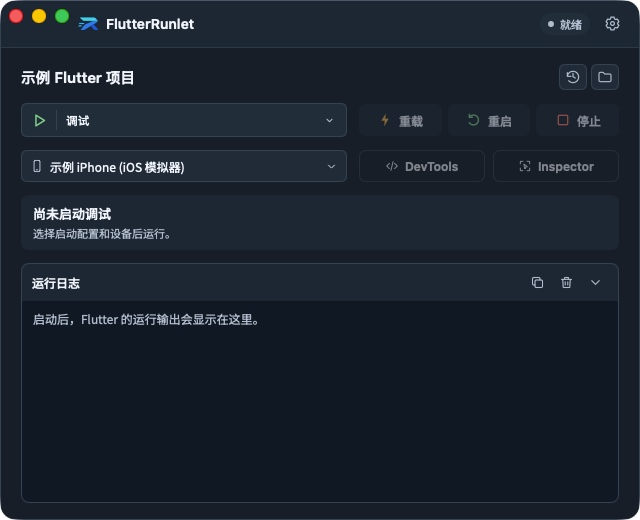
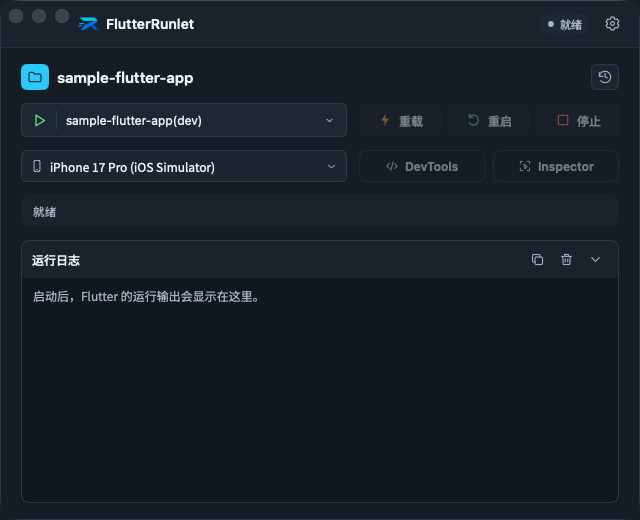
docs: 更新 v0.4.1 截图和首次打开说明

diff --git a/README.md b/README.md
@@ -22,15 +22,17 @@ I built FlutterRunlet so I could keep my existing Flutter configurations, leave 
 
 | Main window | Menu bar |
 | :---: | :---: |
-| [![FlutterRunlet main window with app, configuration, device, and logs](docs/screenshots/main-window.jpg)](docs/screenshots/main-window.jpg) | [![macOS menu bar with the FlutterRunlet panel open](docs/screenshots/menu-bar.jpg)](docs/screenshots/menu-bar.jpg) |
+| [![FlutterRunlet main window with app, configuration, device, and logs](docs/screenshots/main-window.jpg)](docs/screenshots/main-window.jpg) | [![FlutterRunlet menu bar panel with project, configuration, and device](docs/screenshots/menu-bar.jpg)](docs/screenshots/menu-bar.jpg) |
 | **DevTools settings** | **About** |
-| [![FlutterRunlet DevTools settings with a standalone SDK and a shortened path](docs/screenshots/devtools.jpg)](docs/screenshots/devtools.jpg) | [![About FlutterRunlet with Check for Updates and four links](docs/screenshots/about.jpg)](docs/screenshots/about.jpg) |
+| [![FlutterRunlet DevTools source and source editor settings](docs/screenshots/devtools.jpg)](docs/screenshots/devtools.jpg) | [![About FlutterRunlet with Check for Updates and four links](docs/screenshots/about.jpg)](docs/screenshots/about.jpg) |
 
-The DevTools, [General settings](docs/screenshots/settings.jpg), and About screenshots show the v0.3.0 build 223 interface with sample data. The main window and menu bar were captured on v0.2.0 with sample data.
+Screenshots show v0.4.1 (build 311) with sample data. [General settings](docs/screenshots/settings.jpg)
 
 ## Install
 
 Download the Universal macOS DMG from [GitHub Releases](https://github.com/atypiape/flutter-runlet/releases). Follow the release page's checksum instructions, open the DMG, and drag FlutterRunlet to **Applications**.
+
+Open FlutterRunlet from **Applications**. If macOS blocks it because it cannot verify the developer or check the app for malicious software, confirm that the DMG came from the GitHub release and passed the checksum check. Go to **System Settings → Privacy & Security → Security**, click **Open Anyway** for FlutterRunlet, then confirm in the dialog. [Apple Support](https://support.apple.com/en-us/102445)
 
 The deployment target is macOS 15.0. Universal builds include Apple Silicon and Intel. Runtime testing was done on Apple Silicon with macOS 26.7.1; running on Intel or macOS 15 has not yet been verified. See the [release notes](docs/RELEASE-NOTES.md) (Simplified Chinese).
 
